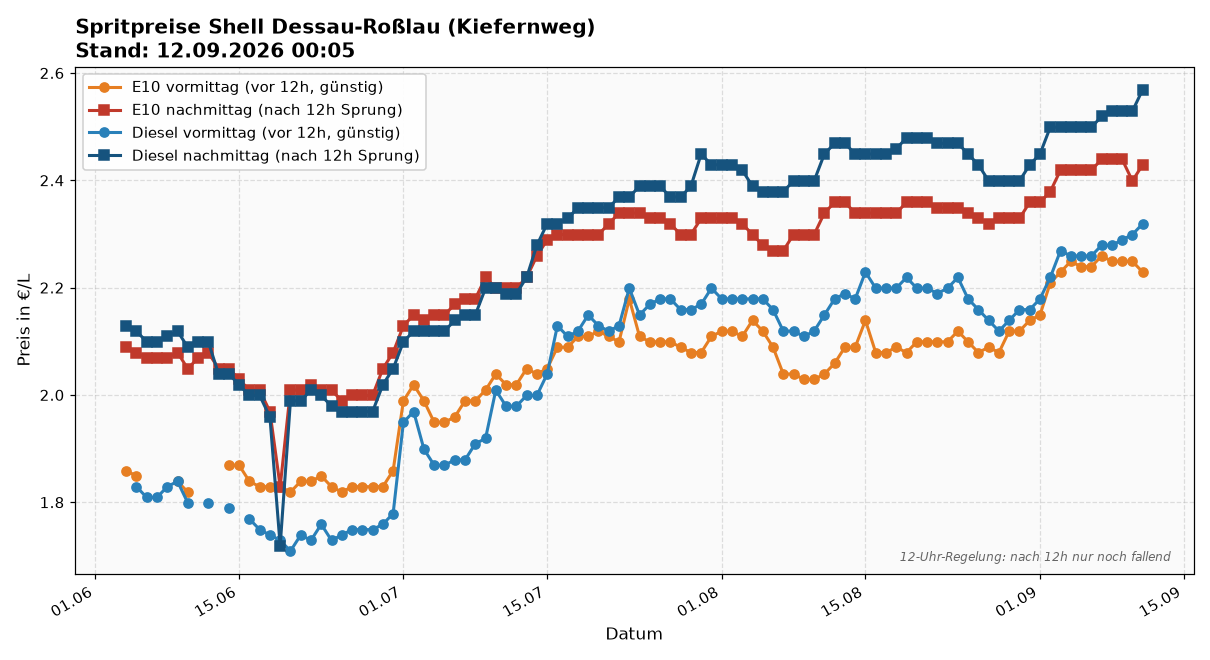
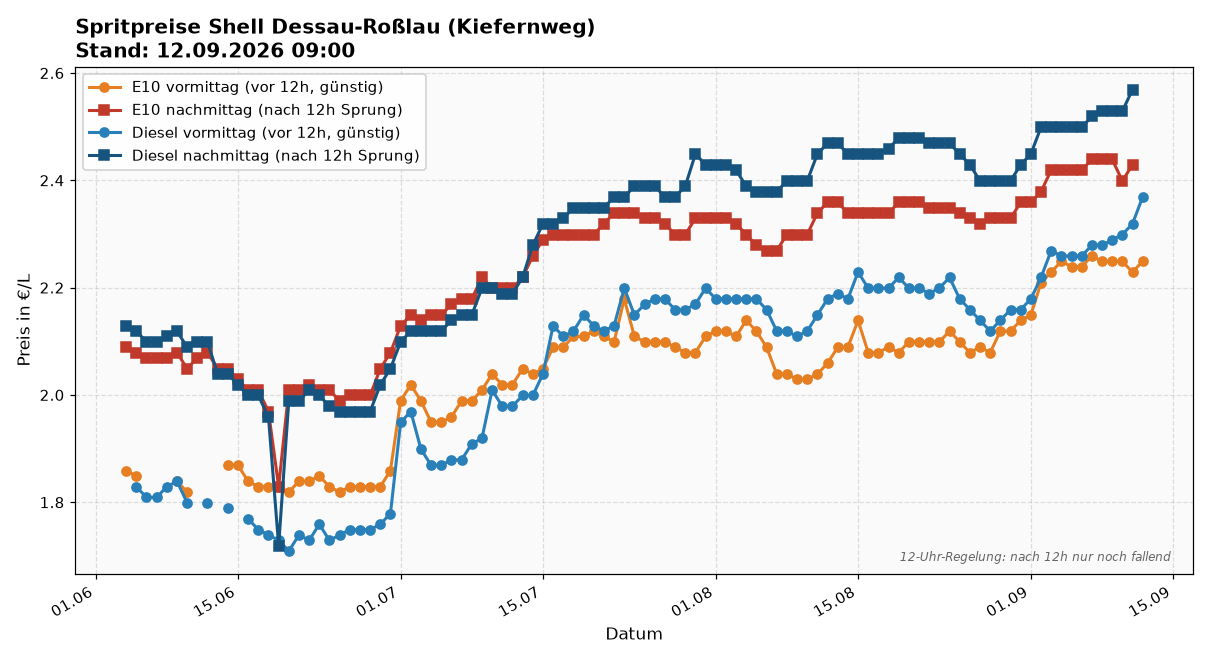
update: spritpreise 2026-09-12 09:00

diff --git a/index.html b/index.html
@@ -19,17 +19,17 @@
 </head>
 <body>
 <h1>🛢 Spritpreise Shell Dessau-Roßlau (Kiefernweg)</h1>
-<div class="sub">Source: Tankerkönig · Stand: 12.09.2026 00:05</div>
+<div class="sub">Source: Tankerkönig · Stand: 12.09.2026 09:00</div>
 
 <img src="latest.png" alt="Preisverlauf">
 
 <div class="latest">
   <strong>Heute (2026-09-12)</strong>
-  <div style="color:#888;font-style:italic;margin-bottom:0.5em;">Noch keine Messung heute — cron läuft 09:00 + 12:10.</div>
+  
   <table>
-    <tr><td>E10 vormittag</td><td class="price">— €</td></tr>
+    <tr><td>E10 vormittag</td><td class="price">2.249 €</td></tr>
     <tr><td>E10 nachmittag</td><td class="price">— €</td></tr>
-    <tr><td>Diesel vormittag</td><td class="price">— €</td></tr>
+    <tr><td>Diesel vormittag</td><td class="price">2.369 €</td></tr>
     <tr><td>Diesel nachmittag</td><td class="price">— €</td></tr>
   </table>
 </div>
